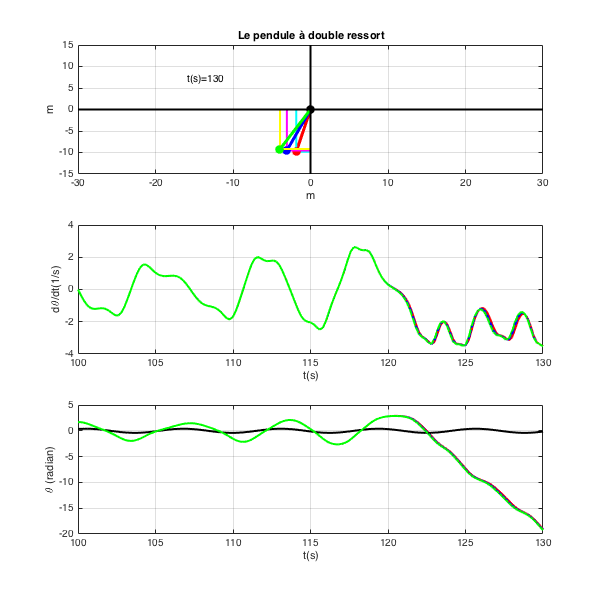
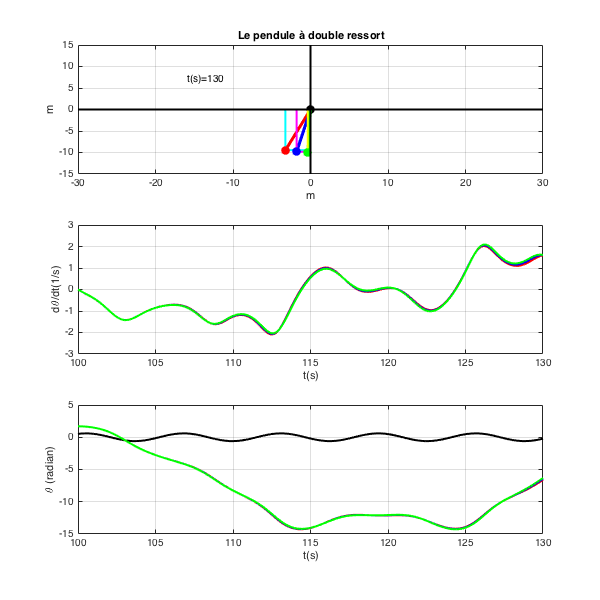
small changes report

diff --git a/Matlab/main.m b/Matlab/main.m
@@ -6,7 +6,7 @@
 
 global k k1 k2 m l l1 l2 A omega x0 x1 x2 time
 
-m=5;k1=5;k2=10;l=10;k=0;A=200;omega=1;l1=l/2;l2=l/2;
+m=5;k1=25;k2=25;l=10;k=0;A=300;omega=1;l1=l/2;l2=l/2;
 
 %%% Conditions Initiales %%%
 % note: x = [theta, theta0.]
@@ -20,8 +20,8 @@ x2 = [1.7 0.002];
 
 
 %%% DIAGRAMME DE BASE %%%
-time = [100:0.2:130];
-%diagramme_base()
+time = [100:0.2:200];
+diagramme_base()
 
 
 %%% DIAGRAMME DE PHASE %%%
@@ -32,7 +32,7 @@ time = [0:0.25:100];
 %%% SECTION POINCARE %%%
 %time = [0:10:3000];
 time = [0:10*pi:460*pi*10];
-sectionpoincare()
+%sectionpoincare()
 
 
 %%% DIAGRAMME BIFURCATION %%%
